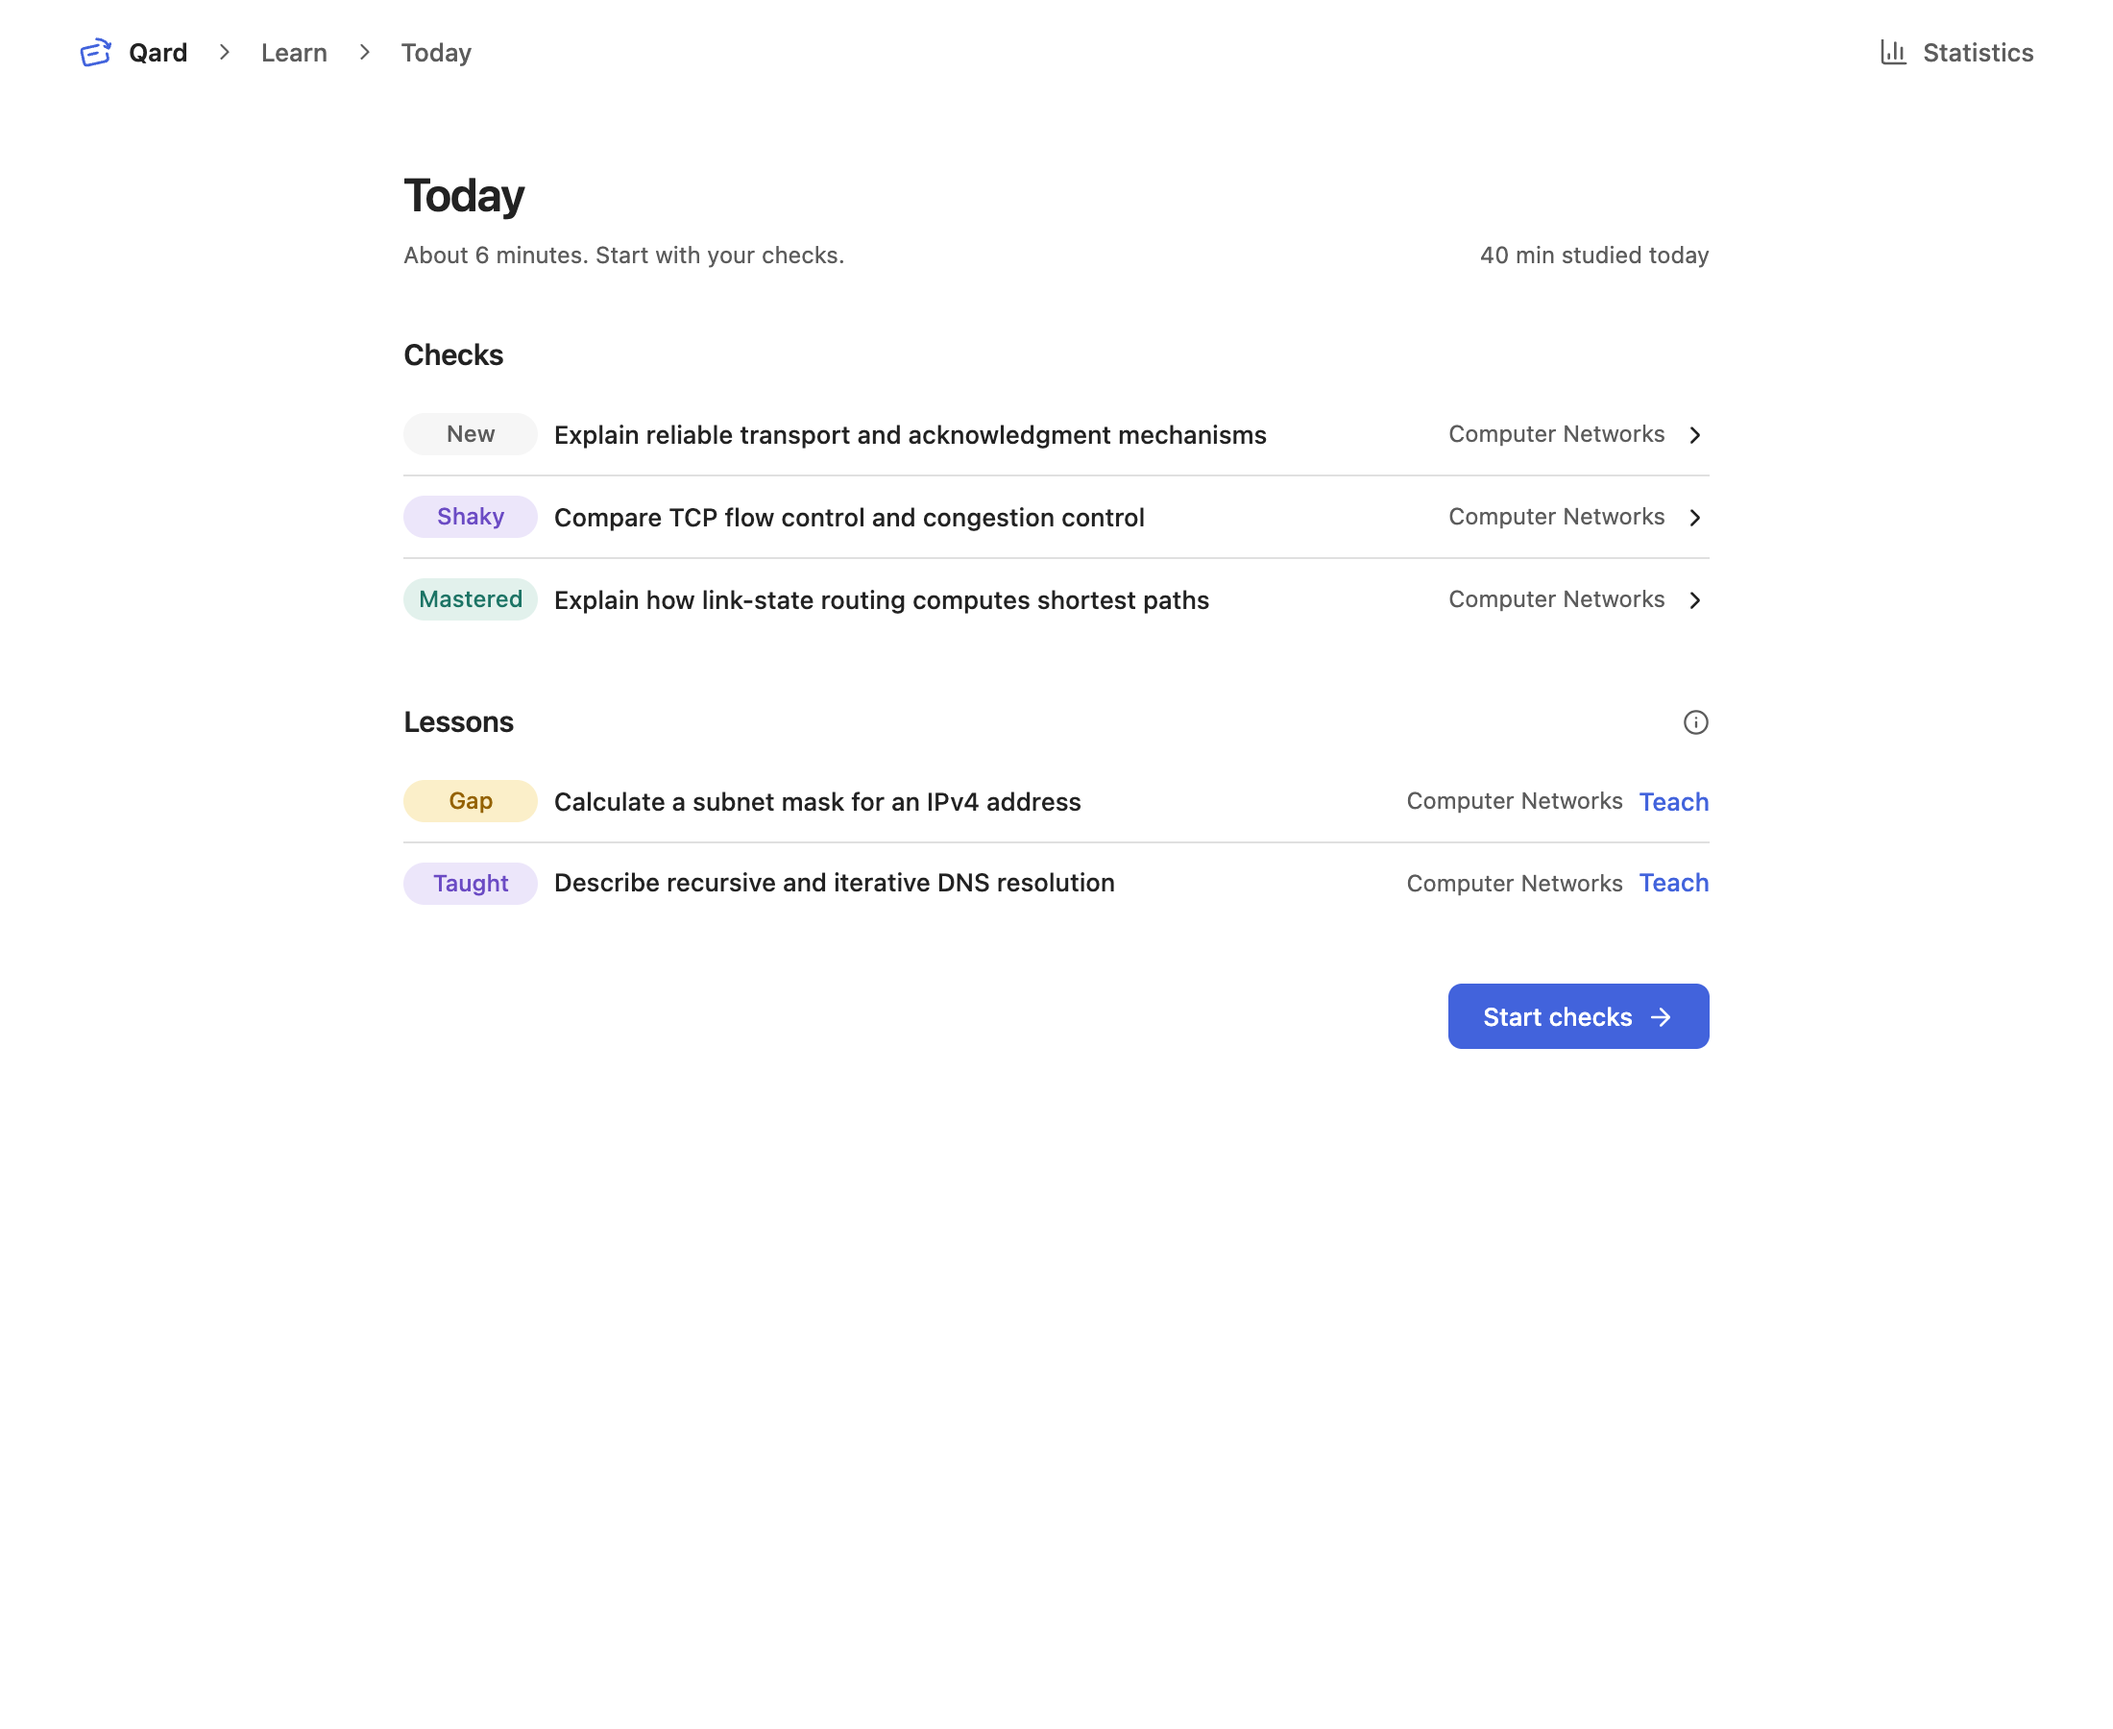
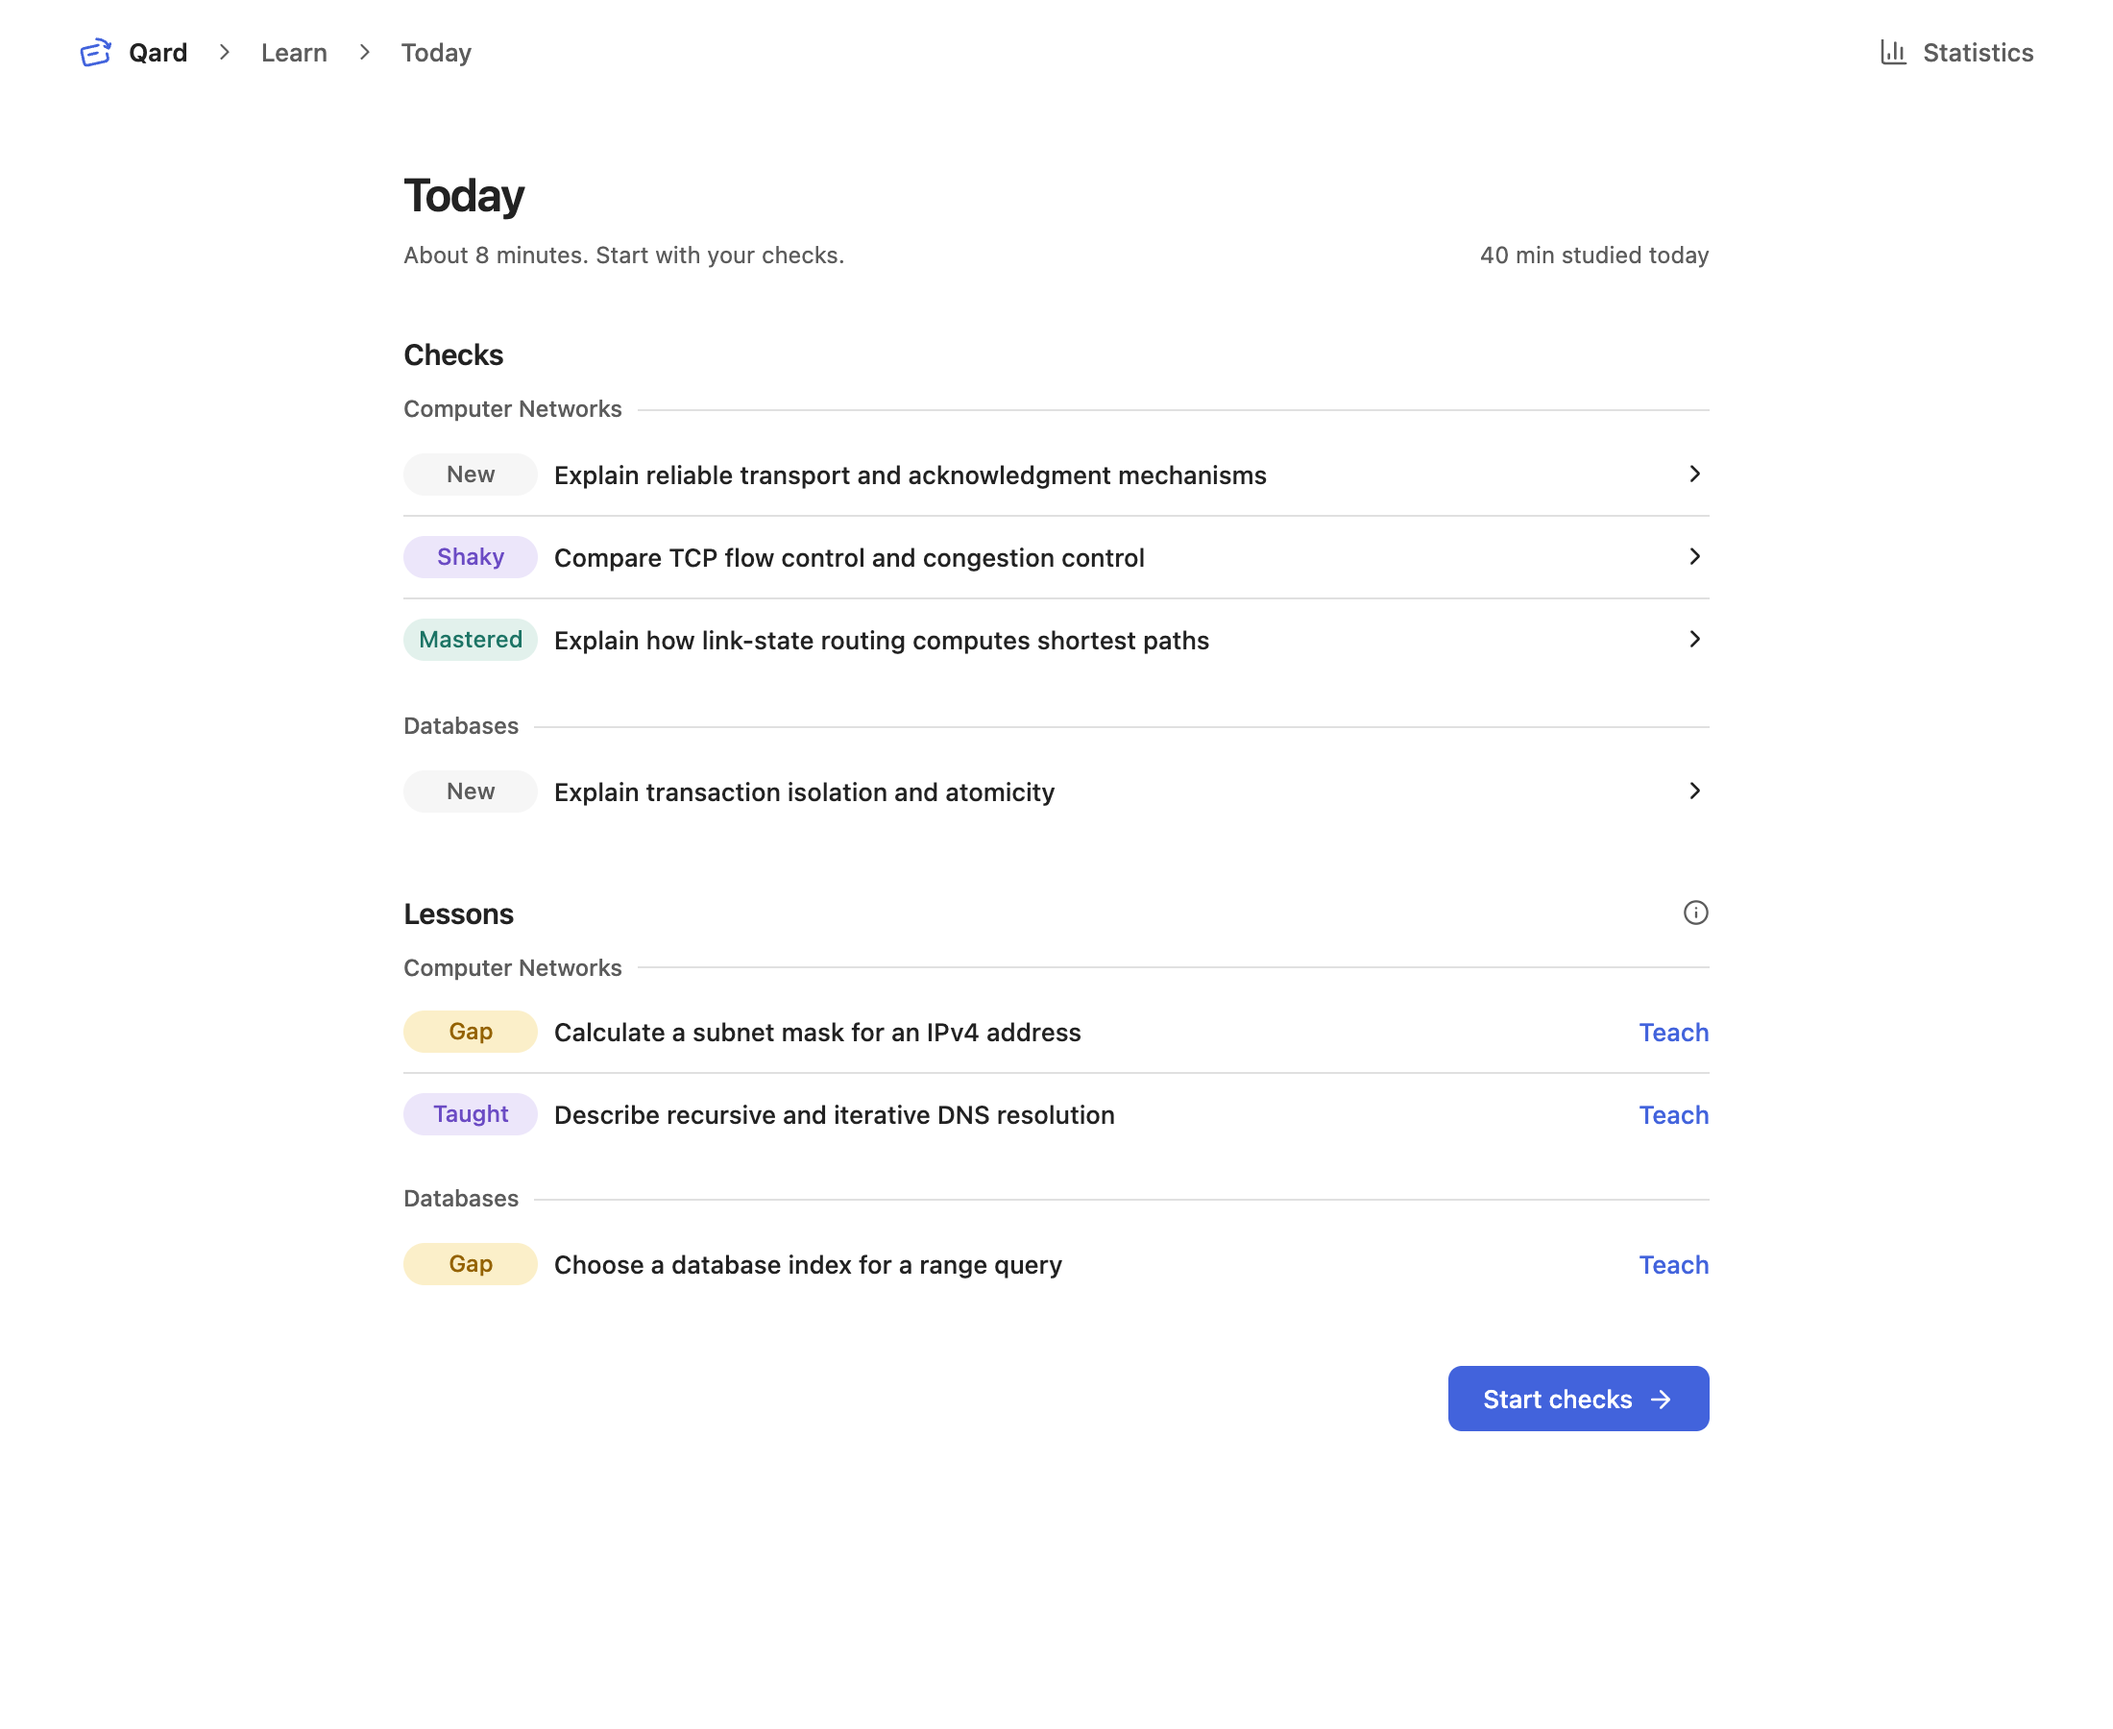
Refresh grouped queues, compact decks and figure comparisons

diff --git a/docs/images/ui-main-latest/audit-report.md b/docs/images/ui-main-latest/audit-report.md
@@ -1,26 +1,23 @@
-# Final combined UI verification
+# Combined visual refinements — PR #11
 
-Final source `e31b7d83f9123d5d1fdb78342d750be5b2308fcc`. Baseline: fork main `70056821914f0dae910b52a20f1fa3329b04d0ac`.
+Fork main `70056821914f0dae910b52a20f1fa3329b04d0ac` compared with source `9aec6249abba6e17e39c31b53ab19223af614aa2`.
 
-## Latest refinements
+Implemented the three preceding audit findings and the four requested refinements. Today checks and lessons group under course subheadings, keyed by course file identity. Status and title stay inline with a trailing action. Rows no longer repeat course labels. Check readiness, retries, teaching, and original order inside each course are preserved.
 
-- Compact Today metadata puts the status at the start and course at the end. Titles align with section headings; Teach/chevrons share the trailing edge. The optional lesson explanation is an info tooltip at the end of its heading row.
-- Lesson action label is Start. Input+Revise remain in one flex group; Start fills its line when it wraps.
-- Lesson trail and test steps use direct step/chevron/step siblings, shared button padding and zero horizontal/vertical CSS gaps.
-- Waiting role/time uses the full available content width with the existing jobs-meta treatment. Provider/model details remain in the role info tooltip. CLI latency guidance moves to an info icon at the start of JobControls.
-- Document rows have separator borders only between items.
-- Study-time period controls expand to the full row when they wrap below the heading.
-- Mobile Create & study button content is centered. Map a course is a single-line label.
-- Resume chevrons stay in a fixed, non-wrapping outer row. Long lesson/update/proposal text uses a readable metadata/title grid rather than squeezing text into tiny columns.
-- Lesson Check and Ask share an action-width token. There is one separator above Ask, no separator below it, no empty history list/header, no Ask/form margins, and an 8px separator inset on each side. Mobile Next step is full width.
+Mobile deck rows reclaim management-button space, remove chevrons, retain Study, and use the deck button's stretched hit area to open through row padding. Desktop management actions remain separate. Virtual parent rows retain branch folding, with plus/minus disclosure on desktop. Compact row/badge gaps match 12px insets; desktop row/badge/action gaps match 16px insets. Shallow nesting remains.
 
-## Fresh validation
+Ask fields use symmetric vertical padding derived from the control height and current line box. Empty placeholders stay on one line, and entered multiline text can grow with its button. The populated Study time legend wraps complete swatch/label items. Figure redraw gives the field a full compact row, with Redraw/Cancel together below; desktop keeps its inline form. Running figures reuse compact role/info and elapsed/estimate metadata.
 
-- `npm run check`: **768 tests across95 suites**, formatter, TypeScript, ESLint, Stylelint, build and release checks passed on the combined changes.
-- **144 focused assertions** passed in both themes at320,375,390,600,768 and1100px: row alignment, tooltip placement, first-row borders, plan wrapping, input/Revise grouping, shared action widths, Ask spacing, mobile Next width, direct zero-gap trails, Learn label wrapping, long resume containment, period-selector width, centered mobile create controls and waiting metadata.
-- **216 integrated scenes** passed across light/dark, three phone widths, tablet, desktop and narrow desktop panes: no runtime errors, horizontal overflow or sampled out-of-bounds panels.
-- **33 matched main-to-final pairs /66 images** captured without runtime errors. Each comparison uses equal columns and matching content/settings; at most three examples per group. The capture manifest records conditions and all image hashes.
-- Native isolated Obsidian confirms plan/Ask field and button heights34px, Check/Ask widths76px, a full-width358px mobile Next step, and no footer separator. Temporary in-memory lesson fixtures were removed and the app returned to Learn.
-- The isolated install matches the final source build. DevBook plugin files, global Obsidian vault configuration and installed app hashes remain unchanged. No DESIGN.md was added.
+`npm run check` passed: 773 tests in 95 suites, formatting, TypeScript, ESLint, Stylelint, production build, and release metadata/install-file checks. The independent source review reported no actionable issues. Twenty targeted queue/deck/figure tests passed before the complete suite.
 
-Keyboard accessibility was outside this visual pass. Mobile checks use touch emulation and narrow panes, not physical iPhone/Safari testing. The separate test app remains open; no development server was launched.
+264 integrated light/dark pane/device scenarios passed with no runtime errors, main horizontal overflow or sampled out-of-bounds panels.
+
+84 focused browser assertions passed across 320/375/390/600/768/1100px, both light and dark: six complete legend items; compact/desktop redraw layout; figure role metadata width; grouped check/lesson labels and inline alignment; one-line empty Ask vertical alignment; multiline growth; mobile deck visibility and full-row hit area; row and badge gaps at least equal to padding.
+
+36 matched main-to-latest screenshot pairs captured without runtime errors. New figure examples cover redraw on mobile/desktop and compact running metadata. Today captures contain two course groups. Study time contains all six activities at 320px. Lesson controls use the same representative question on both revisions. No intermediate PR revision is used as a before image. Maximum three examples per group, two equal image columns, and click-through full-resolution images.
+
+Native isolated Obsidian verification passed: plan/Ask controls 34px; empty placeholder has equal 6.90234px top/bottom padding with an 18.2px line box; Check/Ask widths both 76px; Next step spans the compact row with no top border. Temporary in-memory lessons and the pane-width override were removed; isolated app returned to Learn. Test plugin install hashes match the final source build.
+
+DevBook plugin, global Obsidian configuration, and installed app hashes remain unchanged. The isolated app remains open. No development server was started. Mobile validation uses touch/pane simulation, not a physical iPhone. Keyboard accessibility was outside scope.
+
+The detector retained three existing semantic message/answer side-border warnings; none was introduced by this patch. No further polishing cycle was run after the bounded correction/confirmation pass.
